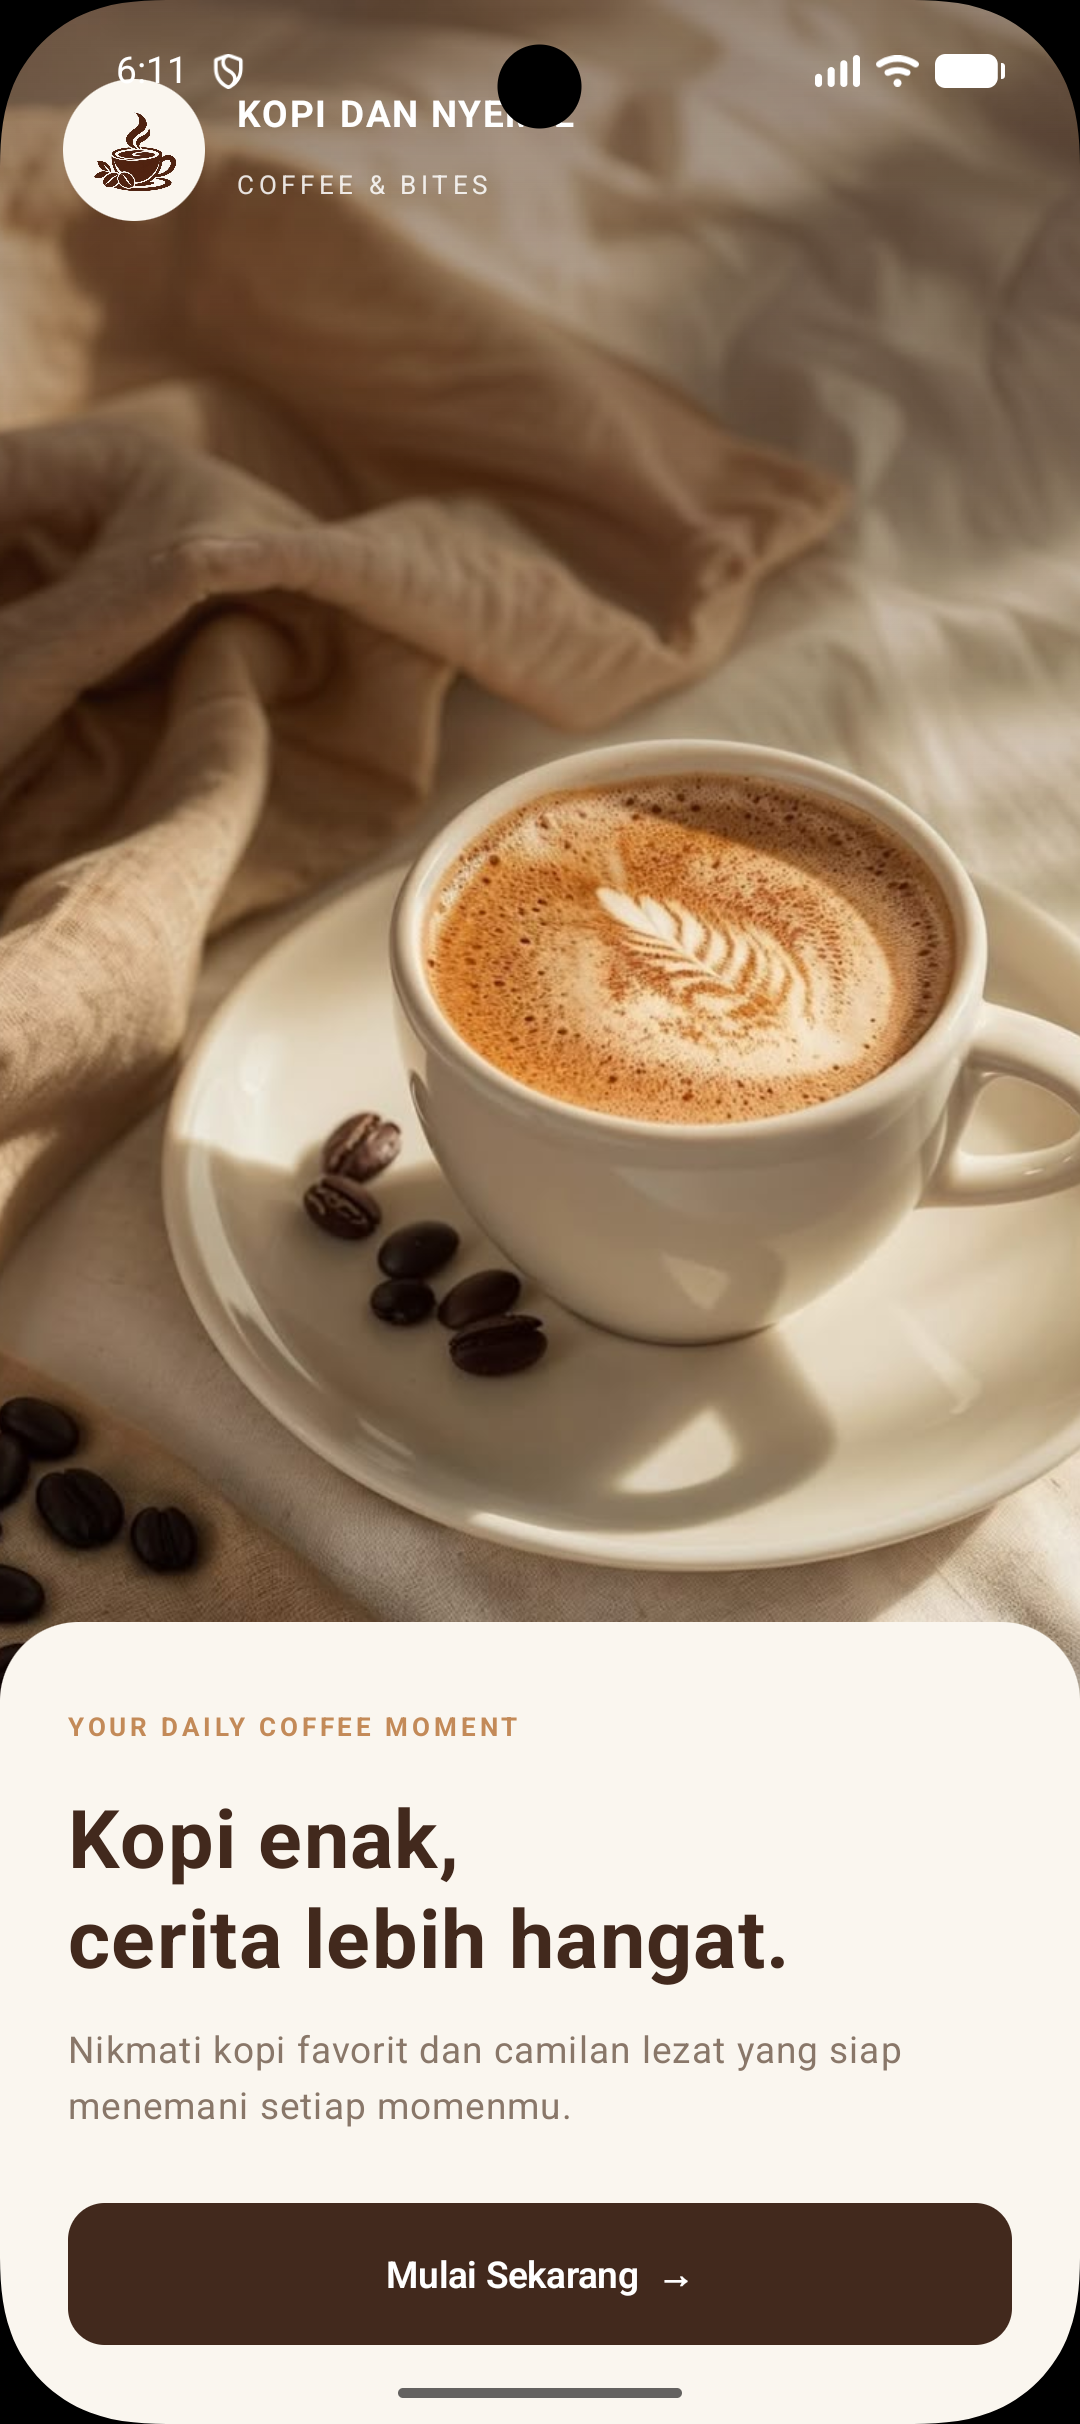
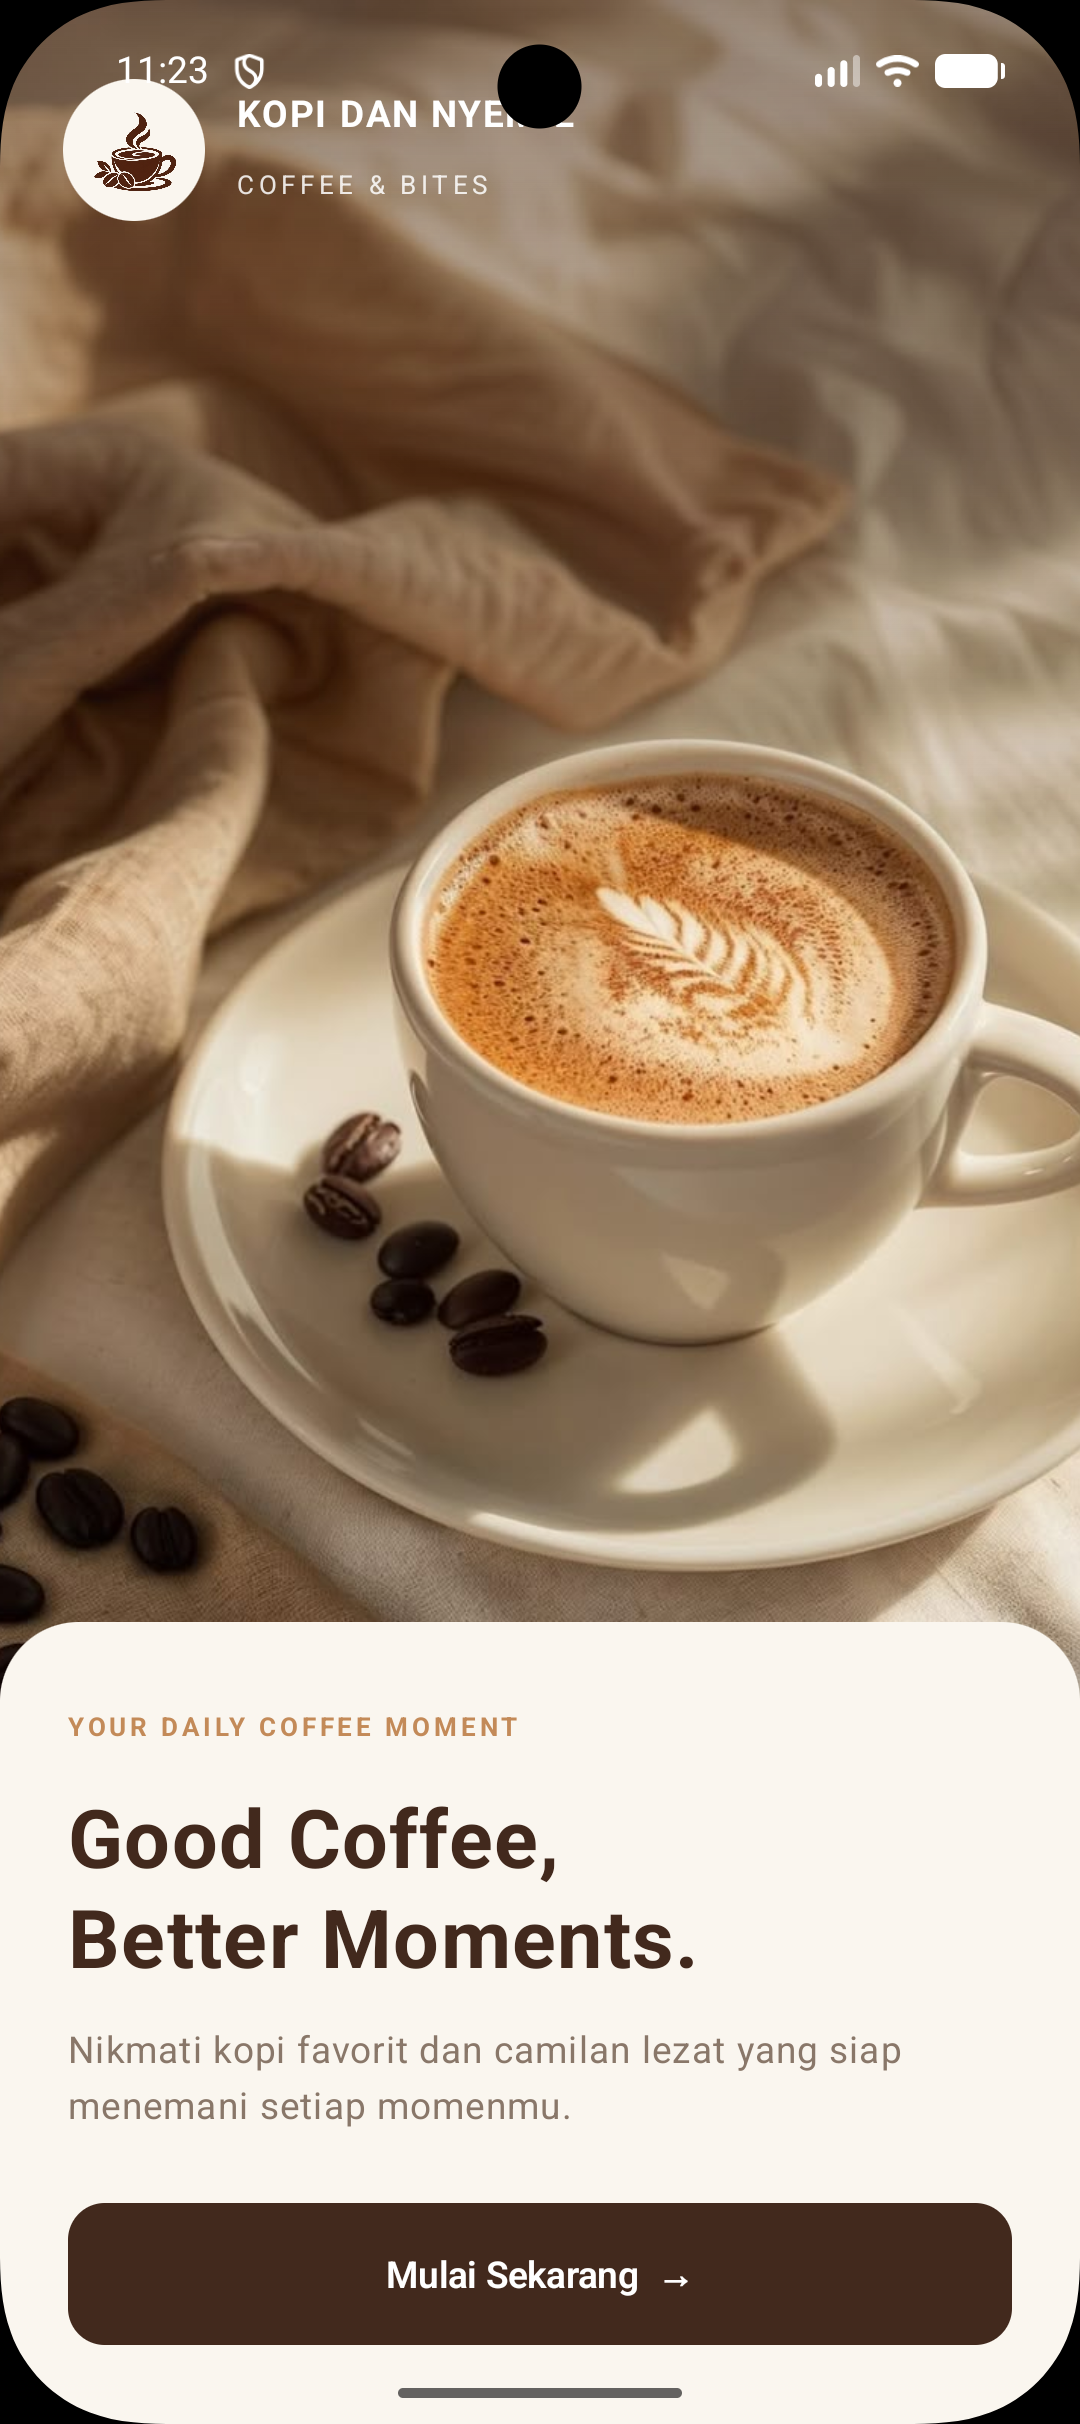
update text screens

Changed region(s): [[0.0611, 0.7426, 0.7028, 0.8354], [0.1833, 0.0, 0.2444, 0.0309], [0.1222, 0.0, 0.1528, 0.0309]]

diff --git a/app/src/main/java/lat/pam/kopidannyemil/screens/WelcomeScreen.kt b/app/src/main/java/lat/pam/kopidannyemil/screens/WelcomeScreen.kt
@@ -149,7 +149,7 @@ fun WelcomeScreen(
                 Spacer(modifier = Modifier.height(12.dp))
 
                 Text(
-                    text = "Kopi enak,\ncerita lebih hangat.",
+                    text = "Good Coffee,\nBetter Moments.",
                     fontSize = 31.sp,
                     lineHeight = 38.sp,
                     fontWeight = FontWeight.Bold,
